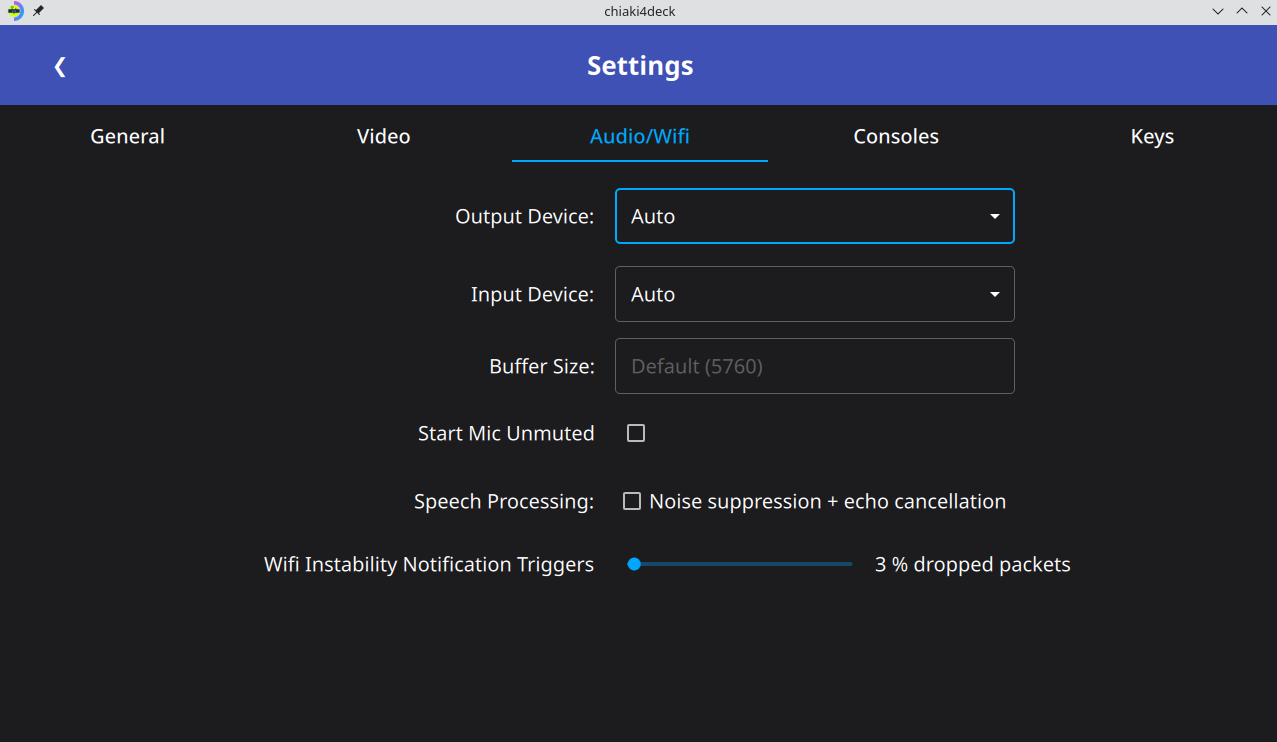
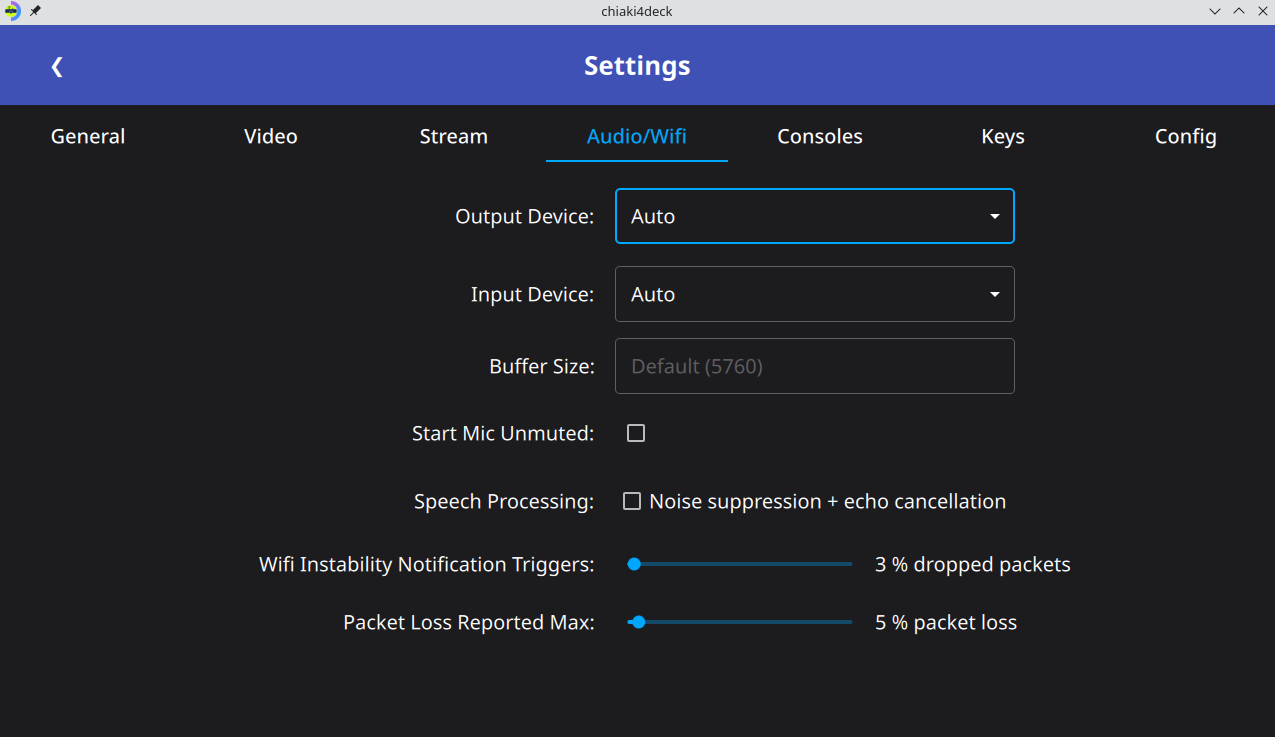
Update for release 1.7.2

diff --git a/docs/updates/releases.md b/docs/updates/releases.md
@@ -61,9 +61,19 @@ In order to update your already installed `chiaki4deck` to the newest version, e
 
 ## Releases (Newest First)
 
+### 1.7.2
+
+Provides unique remote and local Stream Settings for each console (PS4/PS5)
+
+- Separate Local and Remote and PS4/PS5 settings so you can set appropriate settings for each type of connection
+- Enable more network types to work with remote connection via PSN (Note: some can only be made to work a % of the time due to limitations with remote play imposed by Sony)
+- Export/import option for settings to transfer across devices/platforms
+- Adds `auto` hw decoder option which is now the default. It chooses the best decoder for your platform from the available decoders
+- Make Chiaki4deck ipv6 compatible (ipv6 not yet supported by remote play on the console [i.e., in Sony's PlayStation firmware] so can't be used yet)
+
 ### 1.7.1
 
-Improves remote connection via PSN + adds PS4 support
+Improves + adds PS4 support to remote connection via PSN
 
 - remote connection via PSN now supports PS4 consoles
 - remote connection via PSN now supports more network types

diff --git a/docs/setup/configuration.md b/docs/setup/configuration.md
@@ -293,7 +293,7 @@ Here are different settings you can use for Chiaki/`chiaki4deck` depending on yo
 
     4. **Stream Settings**
 
-        (choose the **PS5/1080p HDR** tab if you have a PS5 connected to a HDR TV/monitor ([see HDR section below for more details](#hdr-high-dynamic-range)), **PS5/1080p** if you have a PS5 not connected to an HDR TV/monitor, and **PS4/720p** if you have a PS4). If you are having issues with your PS5 connection, please try the **PS4/720p** settings with your PS5 since they require significantly less bandwidth from your wireless router.
+        (choose the **PS5 HDR** tab if you have a PS5 connected to a HDR TV/monitor ([see HDR section below for more details](#hdr-high-dynamic-range)), **PS5** if you have a PS5 not connected to an HDR TV/monitor, and **PS4** if you have a PS4). If you are having issues with your PS5 connection, please try switching to 720P following with its default bitrate of 10,000 with your PS5 since that requires significantly less bandwidth from your wireless router.
 
     === "PS5 HDR"
 